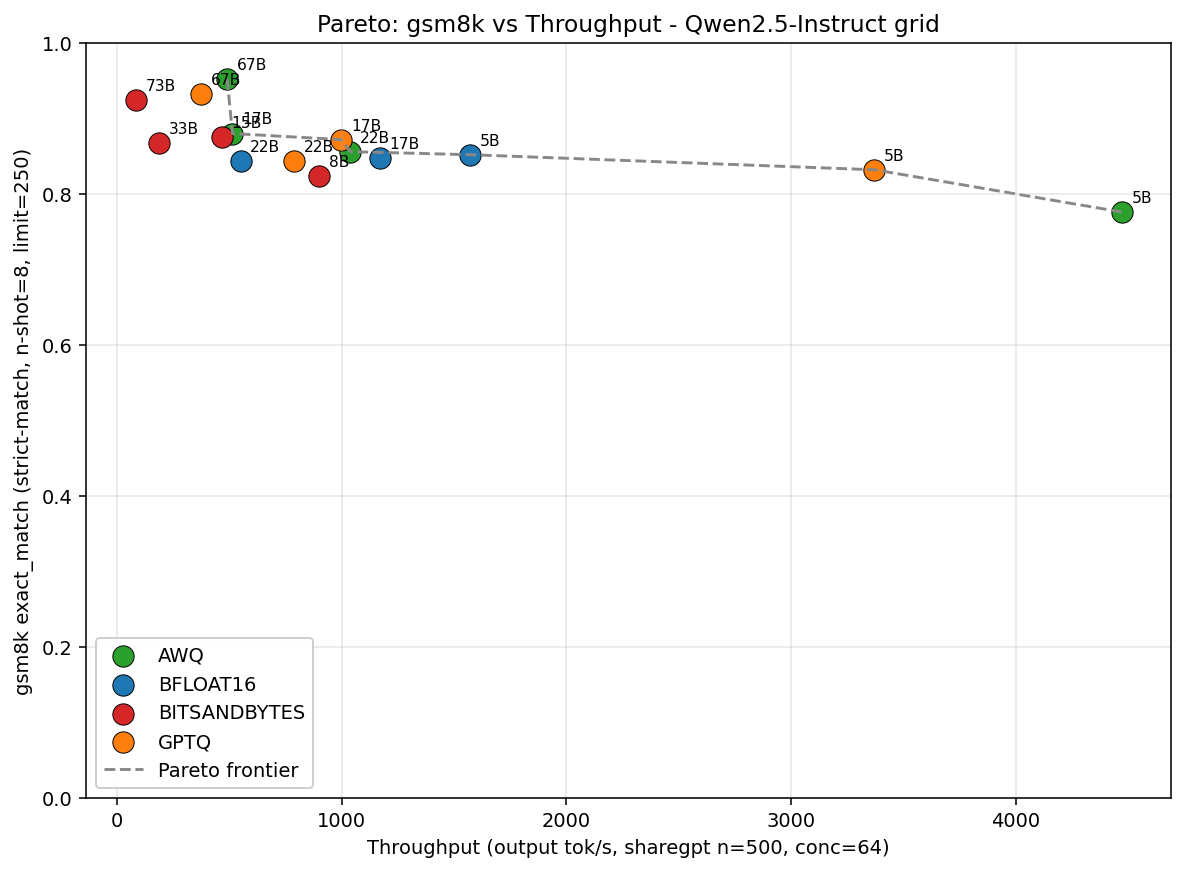
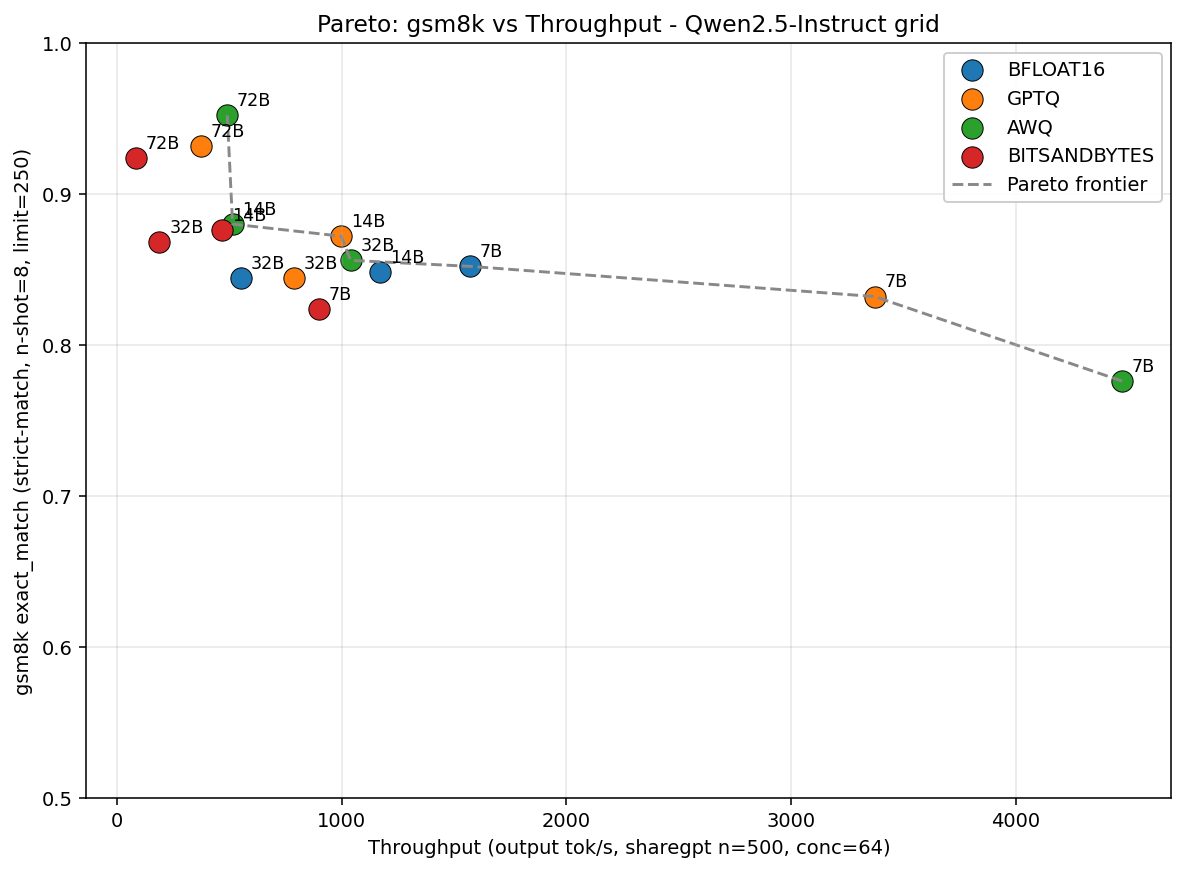
Updated formatting on Pareto frontier charts

diff --git a/services/benchmark_service.py b/services/benchmark_service.py
@@ -563,17 +563,25 @@ def parse_quality_result(result_dir, run_name, extras=None):
         'tasks': [],
         'raw': raw,
     }
+    # Map lm_eval result keys to our stored field names. gsm8k reports two
+    # exact_match variants (strict-match, flexible-extract); using `split(',')[0]`
+    # naively collapses both onto `exact_match` and the second iteration silently
+    # overwrites the first — so keep them as distinct fields.
+    _METRIC_KEY_MAP = [
+        ('acc,none', 'acc'),
+        ('acc_norm,none', 'acc_norm'),
+        ('exact_match,strict-match', 'exact_match_strict'),
+        ('exact_match,flexible-extract', 'exact_match_flex'),
+    ]
     results = raw.get('results', {})
     for task_name, task_data in results.items():
         entry = {'task': task_name}
-        for key in ['acc,none', 'acc_norm,none', 'exact_match,strict-match',
-                     'exact_match,flexible-extract']:
-            if key in task_data:
-                metric_name = key.split(',')[0]
-                entry[metric_name] = task_data[key]
-                stderr_key = f'{key}_stderr'
+        for src_key, field in _METRIC_KEY_MAP:
+            if src_key in task_data:
+                entry[field] = task_data[src_key]
+                stderr_key = f'{src_key}_stderr'
                 if stderr_key in task_data:
-                    entry[f'{metric_name}_stderr'] = task_data[stderr_key]
+                    entry[f'{field}_stderr'] = task_data[stderr_key]
         if len(entry) > 1:
             parsed['tasks'].append(entry)
     if extras:
@@ -636,7 +644,13 @@ def build_pareto_dataset(quality_metric_preference=None):
             else:
                 task_entry = tasks[0]
             if task_entry is not None:
-                q_val = task_entry.get('acc_norm', task_entry.get('acc', task_entry.get('exact_match')))
+                # Prefer strict-match for tasks like gsm8k; fall back through
+                # flexible-extract, then the legacy 'exact_match' field for
+                # JSONs parsed before the strict/flex split.
+                for k in ('acc_norm', 'acc', 'exact_match_strict', 'exact_match_flex', 'exact_match'):
+                    if k in task_entry:
+                        q_val = task_entry[k]
+                        break
                 q_task = task_entry.get('task')
 
         meta = perf.get('model_meta') or qual.get('model_meta') or {}
@@ -828,10 +842,14 @@ def compare_results(path1, path2):
         for task in all_tasks:
             a_data = tasks_a.get(task, {})
             b_data = tasks_b.get(task, {})
-            metric_key = 'acc_norm' if 'acc_norm' in a_data or 'acc_norm' in b_data else 'acc'
+            metric_key = None
+            for k in ('acc_norm', 'acc', 'exact_match_strict', 'exact_match_flex', 'exact_match'):
+                if k in a_data or k in b_data:
+                    metric_key = k
+                    break
             comparison['rows'].append({
                 'metric': task,
-                'a': a_data.get(metric_key),
-                'b': b_data.get(metric_key),
+                'a': a_data.get(metric_key) if metric_key else None,
+                'b': b_data.get(metric_key) if metric_key else None,
             })
     return comparison

diff --git a/pages/benchmark.py b/pages/benchmark.py
@@ -8,6 +8,16 @@ from services import vllm_service, benchmark_service, metrics_service, queue_ser
 
 _PROFILE_MAX_POINTS = 240
 
+# Pareto chart helpers — keep legend ordering and per-point labels consistent
+# across the UI and the standalone analyze.py script.
+_PARETO_QUANT_ORDER = {'BFLOAT16': 0, 'GPTQ': 1, 'AWQ': 2, 'BITSANDBYTES': 3}
+_PARETO_SIZE_RE = re.compile(r'(\d+)B(?:-|$)')
+
+def _pareto_size_label(model_id, run_name):
+    """Nominal Qwen size (e.g. '7B') from the model name. Empty if not found."""
+    m = _PARETO_SIZE_RE.search(model_id or run_name or '')
+    return f'{m.group(1)}B' if m else ''
+
 
 def content():
     """Benchmark tab. Returns a refresh callable."""
@@ -684,16 +694,20 @@ def content():
                 group_key = (mid.split('/', 1)[0] if '/' in mid else mid) or 'unknown'
             else:
                 group_key = q
-            groups.setdefault(group_key, []).append([x, y, r.get('run_name', '')])
+            size_label = _pareto_size_label(r.get('model_id'), r.get('run_name'))
+            groups.setdefault(group_key, []).append([x, y, r.get('run_name', ''), size_label])
 
         series = []
-        for key, pts in sorted(groups.items()):
+        # Order quantization series highest-precision -> lowest (BF16, GPTQ, AWQ, BnB);
+        # other group keys (e.g. model-family mode) fall back to alphabetical.
+        for key in sorted(groups.keys(), key=lambda k: (_PARETO_QUANT_ORDER.get(k, 99), k)):
+            pts = groups[key]
             series.append({
                 'name': key,
                 'type': 'scatter',
                 'symbolSize': 14,
                 'data': pts,
-                'label': {'show': True, 'position': 'right', 'formatter': '{@[2]}', 'fontSize': 10},
+                'label': {'show': True, 'position': 'right', 'formatter': '{@[3]}', 'fontSize': 10},
             })
 
         # Pareto frontier line: drawn once there's more than one plotted point.
@@ -722,7 +736,7 @@ def content():
         pareto_chart.options['xAxis'] = {'type': 'value', 'name': x_label}
         # Only force 0-1 range for quality axis.
         if y_key == 'quality_score':
-            pareto_chart.options['yAxis'] = {'type': 'value', 'name': y_label, 'min': 0, 'max': 1}
+            pareto_chart.options['yAxis'] = {'type': 'value', 'name': y_label, 'min': 0.5, 'max': 1}
         else:
             pareto_chart.options['yAxis'] = {'type': 'value', 'name': y_label}
         pareto_chart.options['title']['text'] = f'{y_label} vs {x_label}'
@@ -845,8 +859,12 @@ def content():
     def _show_qual_result(parsed, table):
         rows = []
         for t in parsed.get('tasks', []):
-            acc_val = t.get('acc_norm', t.get('acc', t.get('exact_match')))
-            stderr = t.get('acc_norm_stderr', t.get('acc_stderr', t.get('exact_match_stderr')))
+            acc_val = stderr = None
+            for k in ('acc_norm', 'acc', 'exact_match_strict', 'exact_match_flex', 'exact_match'):
+                if k in t:
+                    acc_val = t[k]
+                    stderr = t.get(f'{k}_stderr')
+                    break
             rows.append({
                 'task': t['task'],
                 'acc': _fmt(acc_val),

diff --git a/benchmarks/sharegpt_gsm8k_grid/analyze.py b/benchmarks/sharegpt_gsm8k_grid/analyze.py
@@ -126,18 +126,31 @@ def pareto(points):
 
 
 COLORS = {'BFLOAT16': '#1f77b4', 'GPTQ': '#ff7f0e', 'AWQ': '#2ca02c', 'BITSANDBYTES': '#d62728'}
+# Legend order: highest precision -> lowest (FP16 > INT8 > INT4-AWQ > INT4-BnB)
+QUANT_ORDER = {'BFLOAT16': 0, 'GPTQ': 1, 'AWQ': 2, 'BITSANDBYTES': 3}
+
+_SIZE_RE = re.compile(r'(\d+)B(?:-|$)')
+
+def _nominal_size_label(r):
+    """Use the nominal model size (7B / 14B / 32B / 72B) from model_id, NOT the
+    reported parameter count — for quantized variants vLLM reports a slightly
+    different value (e.g. 5.4B for 7B-AWQ) that mis-labels points on the chart."""
+    mid = r.get('model_id') or r.get('run_name') or ''
+    m = _SIZE_RE.search(mid)
+    return f'{m.group(1)}B' if m else ''
 
 
 def _scatter(ax, plottable, xkey, ykey, xlabel, ylabel, title, ylim=None):
     by_q = {}
     for r in plottable:
         by_q.setdefault(r['quantization'] or 'UNKNOWN', []).append(r)
-    for q, group in sorted(by_q.items()):
+    for q in sorted(by_q.keys(), key=lambda k: QUANT_ORDER.get(k, 99)):
+        group = by_q[q]
         xs = [r[xkey] for r in group]; ys = [r[ykey] for r in group]
         ax.scatter(xs, ys, s=120, label=q, color=COLORS.get(q, '#888'), edgecolors='black', linewidths=0.5)
         for r in group:
-            sz = f'{int(round(r["parameters_b"]))}B' if r.get('parameters_b') else ''
-            ax.annotate(sz, (r[xkey], r[ykey]), fontsize=8, xytext=(5, 5), textcoords='offset points')
+            ax.annotate(_nominal_size_label(r), (r[xkey], r[ykey]), fontsize=9,
+                        xytext=(5, 5), textcoords='offset points')
     pts = [[r[xkey], r[ykey], r['run_name']] for r in plottable]
     front = pareto(pts)
     if len(front) >= 2:
@@ -157,7 +170,7 @@ front1 = _scatter(ax, [{**r, 'tput': r['throughput_tps'], 'q': r['gsm8k_strict']
                   'tput', 'q',
                   'Throughput (output tok/s, sharegpt n=500, conc=64)',
                   'gsm8k exact_match (strict-match, n-shot=8, limit=250)',
-                  'Pareto: gsm8k vs Throughput - Qwen2.5-Instruct grid', ylim=(0, 1))
+                  'Pareto: gsm8k vs Throughput - Qwen2.5-Instruct grid', ylim=(0.5, 1))
 out1 = os.path.join(GRID_DIR, 'pareto_gsm8k_vs_throughput.png')
 fig.savefig(out1, dpi=140, bbox_inches='tight')
 print(f'\nPareto frontier (gsm8k strict vs throughput):')
@@ -173,7 +186,7 @@ front2 = _scatter(ax2, [{**r, 'vram': r['_vram'], 'q': r['gsm8k_strict']} for r 
                   'vram', 'q',
                   'Peak GPU VRAM (GB)',
                   'gsm8k exact_match (strict-match)',
-                  'Quality vs VRAM cost - lower-left dominated, upper-left ideal', ylim=(0, 1))
+                  'Quality vs VRAM cost - lower-left dominated, upper-left ideal', ylim=(0.5, 1))
 ax2.invert_xaxis()  # left = less VRAM = better; pareto front is upper-left
 out2 = os.path.join(GRID_DIR, 'pareto_gsm8k_vs_vram.png')
 fig2.savefig(out2, dpi=140, bbox_inches='tight')

diff --git a/services/queue_service.py b/services/queue_service.py
@@ -573,7 +573,11 @@ def _summarize_result(path):
             if tasks:
                 parts = []
                 for t0 in tasks[:3]:
-                    met = t0.get('acc_norm', t0.get('acc', t0.get('exact_match')))
+                    met = None
+                    for k in ('acc_norm', 'acc', 'exact_match_strict', 'exact_match_flex', 'exact_match'):
+                        if k in t0:
+                            met = t0[k]
+                            break
                     if met is not None:
                         parts.append(f'{t0.get("task")}={met:.3f}')
                 return f'{name} quality: ' + (', '.join(parts) or '(no metrics)')
